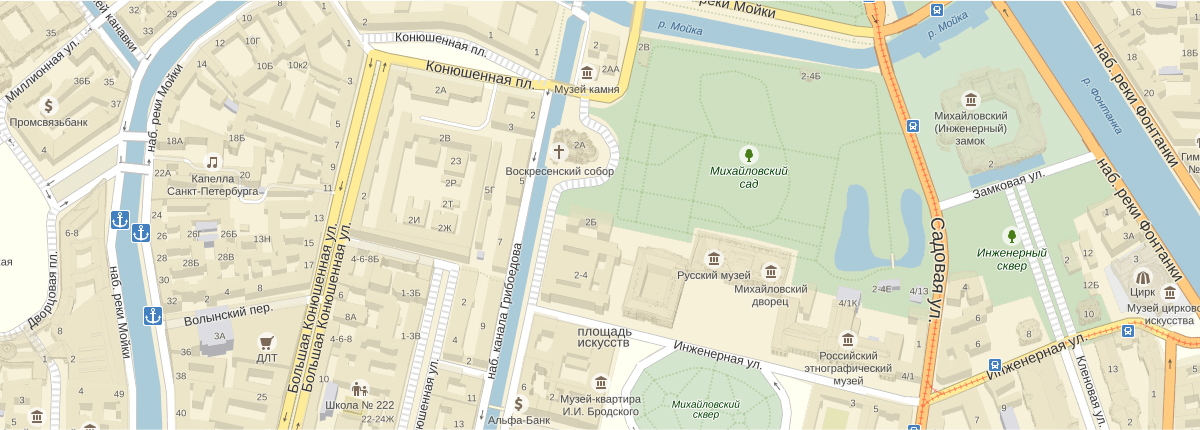
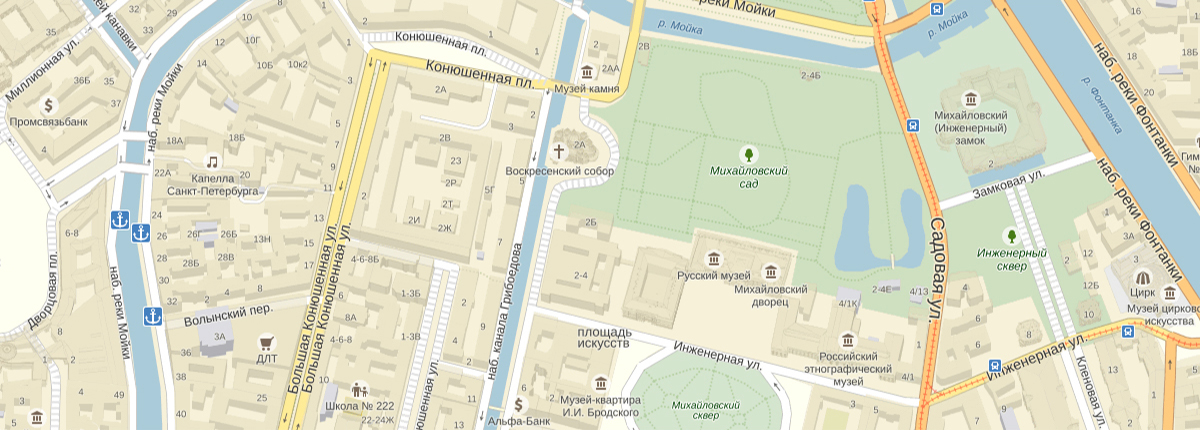
Отредактирована и вставлена карта

diff --git a/index.html b/index.html
@@ -129,8 +129,8 @@
 
       <section class="map">
         <h2 class="visually-hidden">Контакты магазина</h2>
-        <img class="map-pin" src="img/map-pin.svg" alt="">
-        <img class="map"  src="img/map.jpg" alt="">
+        <img class="map-pin" src="img/map-pin.svg" alt="" width="80" height="140">
+        <img class="map"  src="img/map.jpg" alt="" width="1200" height="430">
 
         <div class="contact">
           Адрес главного офиса и офлайн-магазина:<address>ул. Большая Конюшенная 19/8, Санкт-Петербург</address>
